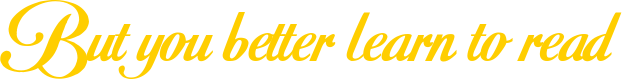
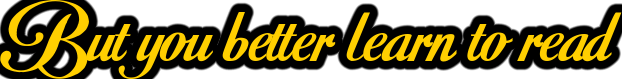
more accurate paramout reference
+ Paramout's Stars Circle
+ Added Outline

diff --git a/index.html b/index.html
@@ -7,6 +7,8 @@
         [class^="verse"], [class^="chorus"] {
             display: none;
             margin: 0 auto;
+            position: relative;
+            z-index: 2;
         }
 
         .lyrics {
@@ -29,7 +31,7 @@
             top: 300px;
             left: 50%; 
             transform: translateX(-50%);
-            z-index: 2; 
+            z-index: 3; 
         }
 
         .warn {
@@ -38,7 +40,7 @@
             top: 300px;
             left: 50%; 
             transform: translateX(-50%);
-            z-index: 2; 
+            z-index: 3; 
         }
         
         .songname {
@@ -47,7 +49,7 @@
             top: 5px;
             left: 7%; 
             transform: translateX(-50%);
-            z-index: 2;
+            z-index: 3;
             display: none;
         }
 
@@ -74,6 +76,80 @@
             75% {transform: translateX(-5px);}
             100% {transform: translateX(0);}
         }
+
+        .starcircle {
+            display: none;
+            position: absolute;
+            width: 300px;
+            height: 300px;
+            animation: spin 10s linear infinite;
+            z-index: 1;
+        }
+        
+        @keyframes spin {
+            from {
+                transform: rotate(0deg); 
+            }
+            to {
+                transform: rotate(360deg);
+            }
+        }
+
+        .star {
+            position: absolute;
+            width: 0px;
+            height: 0px;
+            border-right: 20px solid transparent;
+            border-bottom: 14px solid white;
+            border-left: 20px solid transparent;
+            top: 50%;
+            left: 50%;
+            margin-top: -7px; 
+            margin-left: -20px;
+        }
+
+        .star:before {
+            border-bottom: 16px solid white;
+            border-left: 6px solid transparent;
+            border-right: 6px solid transparent;
+            position: absolute;
+            height: 0;
+            width: 0;
+            top: -9px;
+            left: -13px;
+            display: block;
+            content: '';
+            transform: rotate(-35deg);
+        }
+
+        .star:after {
+            position: absolute;
+            display: block;
+            color: white;
+            top: 0.6px;
+            left: -21px;
+            width: 0px;
+            height: 0px;
+            border-right: 20px solid transparent;
+            border-bottom: 14px solid white;
+            border-left: 20px solid transparent;
+            transform: rotate(-70deg);
+            content: '';
+        }
+
+        .star:nth-child(1) { transform: rotate(0deg) translate(150px) rotate(0deg); }
+        .star:nth-child(2) { transform: rotate(30deg) translate(150px) rotate(-30deg); }
+        .star:nth-child(3) { transform: rotate(60deg) translate(150px) rotate(-60deg); }
+        .star:nth-child(4) { transform: rotate(90deg) translate(150px) rotate(-90deg); }
+        .star:nth-child(5) { transform: rotate(120deg) translate(150px) rotate(-120deg); }
+        .star:nth-child(6) { transform: rotate(150deg) translate(150px) rotate(-150deg); }
+        .star:nth-child(7) { transform: rotate(180deg) translate(150px) rotate(-180deg); }
+        .star:nth-child(8) { transform: rotate(210deg) translate(150px) rotate(-210deg); }
+        .star:nth-child(9) { transform: rotate(240deg) translate(150px) rotate(-240deg); }
+        .star:nth-child(10) { transform: rotate(270deg) translate(150px) rotate(-270deg); }
+        .star:nth-child(11) { transform: rotate(300deg) translate(150px) rotate(-300deg); }
+        .star:nth-child(12) { transform: rotate(330deg) translate(150px) rotate(-330deg); }
+
     </style>
     <body style="background-color: black;">
         <audio id="song"> 
@@ -89,6 +165,20 @@
             <img class="verse7" src="my answer stood.png">
             <img class="verse8" src="I swear i mean.png">
             <img class="verse9" src="no offense.png">
+            <div class="starcircle">
+                <div class="star"></div>
+                <div class="star"></div>
+                <div class="star"></div>
+                <div class="star"></div>
+                <div class="star"></div>
+                <div class="star"></div>
+                <div class="star"></div>
+                <div class="star"></div>
+                <div class="star"></div>
+                <div class="star"></div>
+                <div class="star"></div>
+                <div class="star"></div>
+            </div>
             <img class="verse10" src="But you better learn to read.png">
             <img class="verse11" src="It's all about membership.png">
             <img class="verse12" src="I spell it.png">
@@ -205,6 +295,12 @@
                 }, 17750); 
                 setTimeout(function() {
                 document.querySelector('.verse10').style.display = 'none';
+                }, 19500); 
+                setTimeout(function() {
+                document.querySelector('.starcircle').style.display = 'block';
+                }, 17750); 
+                setTimeout(function() {
+                document.querySelector('.starcircle').style.display = 'none';
                 }, 19500); 
                 setTimeout(function() {
                 document.querySelector('.verse11').style.display = 'block';
